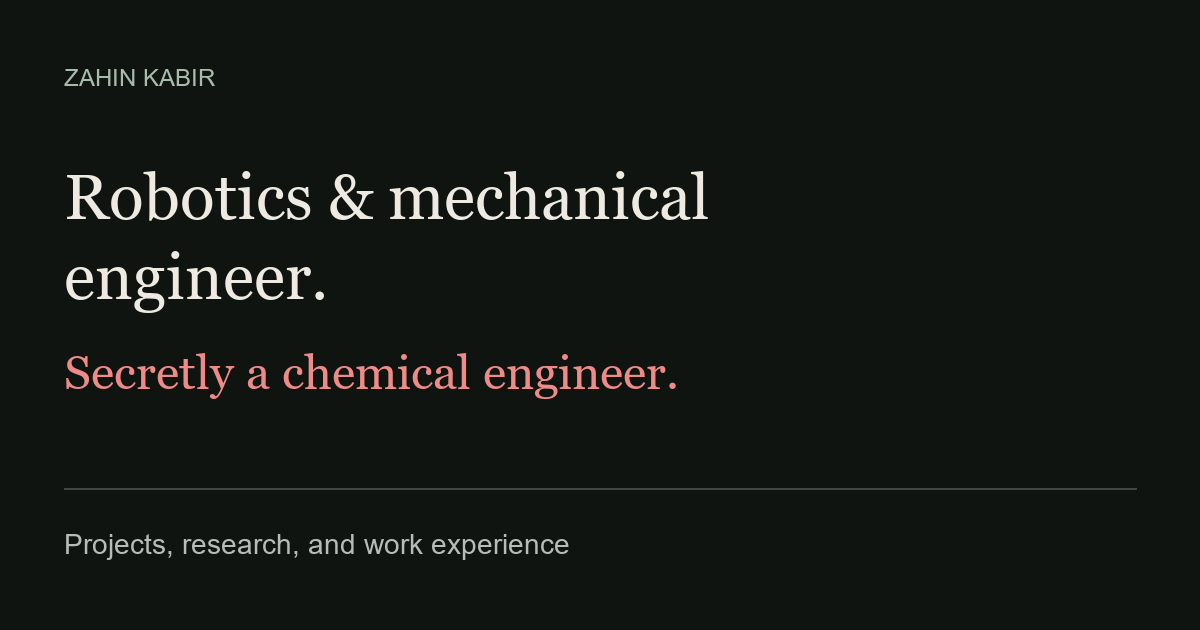
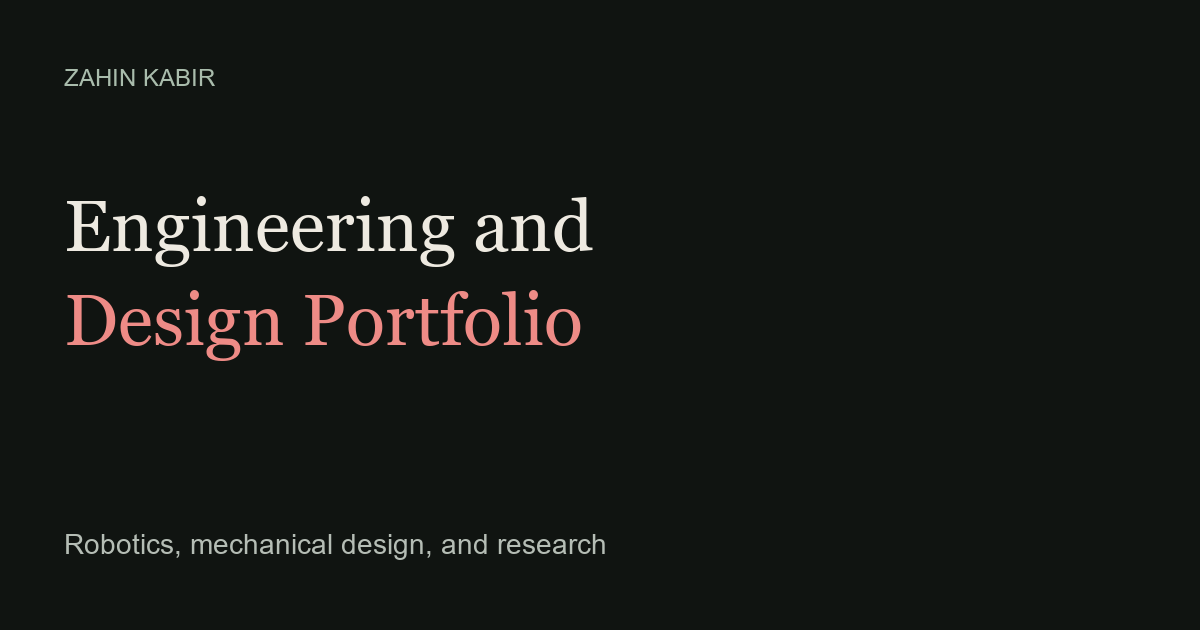
Add NERA work and organize project cards by individual project

Changed region(s): [[0.0308, 0.2714, 0.5858, 0.6333], [0.0617, 0.754, 0.925, 0.7841], [0.0617, 0.8444, 0.5242, 0.9048]]

diff --git a/src/data/projects.js b/src/data/projects.js
@@ -11,7 +11,7 @@ export const projects = [
     "image": "shinkei/rigor-mechanical-assembly.webp",
     "alt": "Exploded CAD view of the rigor mortis system shelf and supporting mechanical components",
     "coverCaption": "Rigor mortis system: mechanical assembly shown in my summer 2026 internship presentation.",
-    "summary": "I worked on the hardware and software behind rigor mortis tracking, hyperspectral imaging, and texture analysis.",
+    "summary": "I worked on texture analysis, hyperspectral imaging, NERA computer vision, and rigor mortis tracking.",
     "role": "R&D / Quality Mechanical Engineering Intern",
     "team": "Shinkei engineering and research team; improvements to existing systems",
     "tools": [
@@ -22,15 +22,171 @@ export const projects = [
       "Hyperspectral imaging",
       "Serial data acquisition"
     ],
-    "intro": "A lot of my summer at Shinkei was spent getting research equipment to work the way we needed it to. That meant switching between CAD, wiring, Python, and the actual machines. Here are the rigor mortis, hyperspectral imaging, and texture-analysis projects I worked on.",
+    "intro": "At Shinkei, I worked on equipment for studying fish quality and on the NERA computer-vision module. I got to take these projects through CAD, assembly, testing, and software development. Here are the systems I worked on!",
     "sections": [
       {
-        "title": "What I worked on",
-        "text": "The R&D team needed repeatable ways to measure changes in fish quality. I worked on an existing rigor mortis system, set up new imaging equipment, and helped get a texture analyzer running. Some days that meant changing a bracket. Other days it meant figuring out why a camera or a serial connection was not cooperating."
+        "title": "TPA analyser: custom procurement and commissioning",
+        "text": "I worked with a vendor in China to procure a custom texture profile analyser, then helped assemble, calibrate, and test it. The machine came with a microprinter as its only output, so the next part of my project was getting those readings onto a computer."
+      },
+      {
+        "title": "TPA analyser: a digital load-cell feed",
+        "text": "I tapped into the printer output through a serial connection and used PuTTY to read it. After working out the output speed and COM-port settings, I had a live feed from the internal load cell on my laptop! I then integrated that feed into my own UI. The connection is read-only; it does not control the machine’s motion.",
+        "image": "shinkei/texture-analyzer-data-interface.webp",
+        "alt": "Rear of the texture analyzer with serial interface hardware and a USB connection",
+        "caption": "The serial interface connected to the back of the analyzer.",
+        "gallery": [
+          {
+            "image": "shinkei/texture-printer-connector.webp",
+            "alt": "Printer module and connector used during texture-analyzer interface development",
+            "caption": "The printer hardware I was working with."
+          },
+          {
+            "image": "shinkei/texture-interface-bench.webp",
+            "alt": "Serial interface components and wiring being tested at a desk",
+            "caption": "Working through the interface on the bench."
+          },
+          {
+            "image": "shinkei/texture-terminal-readout.webp",
+            "alt": "PuTTY terminal showing force readings from the texture analyzer",
+            "caption": "The moment the analyzer output made it onto the laptop."
+          }
+        ]
+      },
+      {
+        "title": "My wonderfully pink user interface — Texture Lab",
+        "text": "I made this UI incredibly pink because the R&D scientist thought it would be cute :) Texture Lab brings the connection settings and live load-cell feed together so we can watch the measurements on a computer. The output rate is still too slow to fully capture a fast compression curve, so calculating texture properties from it would need further validation.",
+        "image": "shinkei/texture-lab-interface.webp",
+        "alt": "Shinkei Texture Lab read-only connection and live-force interface",
+        "caption": "The Texture Lab interface. This screenshot shows the disconnected state, rather than a recorded test.",
+        "gallery": [
+          {
+            "image": "shinkei/texture-pink-ui-laptop.webp",
+            "alt": "Bright pink Texture Lab interface open on a laptop",
+            "caption": "My wonderfully pink Texture Lab UI running on my laptop."
+          }
+        ]
+      },
+      {
+        "title": "HSI: commissioning and workflow optimization",
+        "text": "I commissioned the Resonon hyperspectral imager and worked on the acquisition settings and workflow. I also worked on a pilot study exploring the relationship between fish spoilage and spectral data. This brought the equipment setup and experimental work together.",
+        "image": "shinkei/hsi-texture-lab.webp",
+        "alt": "Resonon hyperspectral imaging apparatus and texture-analysis equipment on a laboratory bench",
+        "caption": "The HSI and texture-analysis equipment after setup in the lab."
+      },
+      {
+        "title": "HSI: pilot-study acquisition",
+        "text": "These initial scans helped me refine the imaging workflow for the spoilage-correlation pilot study. The view below shows the acquisition software; it is not a final correlation result.",
+        "image": "shinkei/hyperspectral-imaging-setup.webp",
+        "alt": "Hyperspectral acquisition software displaying a fish sample and an RGB pixel-index plot",
+        "caption": "An initial scan in the HSI software. The RGB pixel-index plot shown here is not a calibrated spectral result."
+      },
+      {
+        "title": "NERA: visual detection module",
+        "text": "I worked on the design, fabrication, installation, and deployment of the NERA computer-vision module, along with hardware and software troubleshooting. A big part of the work was making sure the cameras could see the fish clearly in the actual operating environment.",
+        "gallery": [
+          {
+            "image": "shinkei/nera-overview.webp",
+            "alt": "CAD assembly of the NERA visual detection module",
+            "caption": "The NERA visual detection module in CAD."
+          },
+          {
+            "image": "shinkei/nera-collection.webp",
+            "alt": "Fish positioned on a wire support for NERA image collection",
+            "caption": "The image-collection setup."
+          },
+          {
+            "image": "shinkei/nera-lighting.webp",
+            "alt": "Illuminated fish sample inside the NERA module",
+            "caption": "Checking the sample under the module lighting."
+          }
+        ]
+      },
+      {
+        "title": "NERA: assembly and deployment",
+        "text": "I helped assemble NERA2, terminate wires, widen cable openings, and prepare the shipping crate. After deploying CV2 in Tacoma, we used test runs to identify visibility problems with the bottom camera and polycarbonate panels.",
+        "gallery": [
+          {
+            "image": "shinkei/nera-wiring.webp",
+            "alt": "Terminated cable connections on a workbench",
+            "caption": "Terminating the connections during assembly."
+          },
+          {
+            "image": "shinkei/nera-deployment.webp",
+            "alt": "NERA equipment during deployment work",
+            "caption": "On site for assembly and deployment."
+          },
+          {
+            "image": "shinkei/nera-assembly.webp",
+            "alt": "NERA equipment being prepared near a workshop loading area",
+            "caption": "Preparing the equipment for deployment."
+          },
+          {
+            "image": "shinkei/nera-panel.webp",
+            "alt": "NERA enclosure panel with a circular opening",
+            "caption": "Working on the enclosure."
+          }
+        ]
+      },
+      {
+        "title": "NERA: camera position and wire-rack design",
+        "text": "I explored wire supports in place of polycarbonate to give the cameras a more direct view of the flesh and gut cavity. The bottom camera was affected by fish slime and condensation from the spray system. Moving the camera above the fish addressed that issue and removed the need for the solenoids in that arrangement, but required a new layout and more work on side visibility. I also added a cantilevered loading channel for the upright wire rack and clamp system.",
+        "gallery": [
+          {
+            "image": "shinkei/nera-wire-rack.webp",
+            "alt": "NERA CAD model showing a wire rack and loading support",
+            "caption": "The wire-rack and loading-support layout."
+          },
+          {
+            "image": "shinkei/nera-view-clear.webp",
+            "alt": "Fish sample viewed through the NERA support arrangement",
+            "caption": "One of the imaging views used to assess visibility."
+          },
+          {
+            "image": "shinkei/nera-view-fog.webp",
+            "alt": "Hazy camera image of a fish sample in NERA",
+            "caption": "A visibility issue seen during testing."
+          }
+        ]
+      },
+      {
+        "title": "NERA: support height and clamp iterations",
+        "text": "With the fish centered in the machine, the dorsal region was difficult to see. I tested changes to the support-beam height and worked on the clamp layout. The first clamp design left too little room for the flesh, and fish in rigor tended to close in the top-camera orientation. These photos and CAD views show the iterations I worked through.",
+        "gallery": [
+          {
+            "image": "shinkei/nera-clamp.webp",
+            "alt": "Fish sample held in the NERA clamp and wire rack",
+            "caption": "Testing how the clamp held the sample."
+          },
+          {
+            "image": "shinkei/nera-height.webp",
+            "alt": "Fish sample positioned beneath the NERA lighting and support beams",
+            "caption": "Testing the support layout and sample position."
+          },
+          {
+            "image": "shinkei/nera-side-view.webp",
+            "alt": "End view through the NERA support assembly",
+            "caption": "Checking the side view through the supports."
+          },
+          {
+            "image": "shinkei/nera-layout.webp",
+            "alt": "NERA CAD assembly with highlighted support geometry",
+            "caption": "Adjusting the rack geometry in CAD."
+          },
+          {
+            "image": "shinkei/nera-cad-front.webp",
+            "alt": "Front perspective of the NERA support and clamp assembly",
+            "caption": "The support and clamp assembly in CAD."
+          },
+          {
+            "image": "shinkei/nera-cad-side.webp",
+            "alt": "Side perspective of the NERA support and clamp assembly",
+            "caption": "A second view of the assembly."
+          }
+        ]
       },
       {
         "title": "Rigor mortis: from CAD to the machine",
-        "text": "I changed the limit-switch brackets so we could adjust the starting positions instead of fighting a fixed setup. I also worked on the mechanical structure and HMI mount. These are the CAD views and some of the hands-on fitting work behind those changes.",
+        "text": "I changed the limit-switch brackets so we could adjust the starting positions to make the setup easier to adjust. I also worked on the mechanical structure and HMI mount. These are the CAD views and some of the hands-on fitting work behind those changes.",
         "image": "shinkei/adjustable-limit-switch-bracket.webp",
         "alt": "Siemens NX view of an adjustable limit-switch bracket attached to a support member",
         "caption": "The adjustable limit-switch bracket in NX.",
@@ -53,7 +209,7 @@ export const projects = [
         ]
       },
       {
-        "title": "Rigor mortis: making runs less fragile",
+        "title": "Rigor mortis: controls and reliability",
         "text": "Most of the fixes were in the run script: camera-health checks, starting-position and detection checks, overactuation limits, and logs that made troubleshooting much easier. I also worked through inconsistent pinout wiring, camera calibration, automatic uploads, and the two-Pi setup. A KVM switch let us control both computers from one screen.",
         "table": [
           [
@@ -119,74 +275,11 @@ export const projects = [
           "poster": "shinkei/rigor-tracking-poster.webp",
           "alt": "Animated rigor mortis image sequence showing colored tracking markers on the fish",
           "caption": "The original tracking animation from my rigor mortis slide. Open it to watch the sequence; close it to hide the motion."
-        },
-        "gallery": [
-          {
-            "image": "shinkei/rigor-analysis-visual.webp",
-            "alt": "Orange and yellow fish-shaped visualization on a black background",
-            "caption": "An analysis visualization included alongside the workflow in my presentation."
-          }
-        ]
-      },
-      {
-        "title": "Hyperspectral imaging: setup",
-        "text": "The Resonon hyperspectral camera arrived during my internship, so I installed it, got it set up, and started testing it. I worked on the settings and procedures we would need for future fish-quality correlation studies. This part of the project was about getting the equipment and acquisition process ready.",
-        "image": "shinkei/hsi-texture-lab.webp",
-        "alt": "Resonon hyperspectral imaging apparatus and texture-analysis equipment on a laboratory bench",
-        "caption": "The HSI and texture-analysis equipment after setup in the lab."
-      },
-      {
-        "title": "Hyperspectral imaging: initial acquisition",
-        "text": "Here is one of the initial acquisition views from the imaging software. I used these early scans to work through setup and scan configuration before the later correlation studies.",
-        "image": "shinkei/hyperspectral-imaging-setup.webp",
-        "alt": "Hyperspectral acquisition software displaying a fish sample and an RGB pixel-index plot",
-        "caption": "An initial scan in the HSI software. The RGB pixel-index plot shown here is not a calibrated spectral result."
-      },
-      {
-        "title": "Texture analysis: first, get the machine here",
-        "text": "There was quite a bit of back-and-forth with the vendor before the texture analyzer finally arrived. I helped get it procured, assembled, calibrated, and tested. Then we ran into the next problem: it printed its results on tiny receipt paper. That was not especially helpful when we wanted the measurements on a computer."
-      },
-      {
-        "title": "Texture analysis: getting data off receipt paper",
-        "text": "My plan was to read the printer output through a serial connection and bring it into PuTTY. I worked out the output speed and COM-port settings, and got the internal load-cell readings onto my laptop. Success :D The interface only reads the output; it does not control the machine’s motion.",
-        "image": "shinkei/texture-analyzer-data-interface.webp",
-        "alt": "Rear of the texture analyzer with serial interface hardware and a USB connection",
-        "caption": "The serial interface connected to the back of the analyzer.",
-        "gallery": [
-          {
-            "image": "shinkei/texture-printer-connector.webp",
-            "alt": "Printer module and connector used during texture-analyzer interface development",
-            "caption": "The printer hardware I was working with."
-          },
-          {
-            "image": "shinkei/texture-interface-bench.webp",
-            "alt": "Serial interface components and wiring being tested at a desk",
-            "caption": "Working through the interface on the bench."
-          },
-          {
-            "image": "shinkei/texture-terminal-readout.webp",
-            "alt": "PuTTY terminal showing force readings from the texture analyzer",
-            "caption": "The moment the analyzer output made it onto the laptop."
-          }
-        ]
-      },
-      {
-        "title": "Texture Lab (yes, it is very pink)",
-        "text": "I made this UI incredibly pink because the R&D scientist thought it would be cute :) It puts the connection settings and live-force readout in one place. There is still a real measurement limit here: the output rate cannot fully capture a fast compression curve, so I would not use an undersampled trace to calculate texture properties without validating that measurement first.",
-        "image": "shinkei/texture-lab-interface.webp",
-        "alt": "Shinkei Texture Lab read-only connection and live-force interface",
-        "caption": "The Texture Lab interface. This screenshot shows the disconnected state, rather than a recorded test.",
-        "gallery": [
-          {
-            "image": "shinkei/texture-pink-ui-laptop.webp",
-            "alt": "Bright pink Texture Lab interface open on a laptop",
-            "caption": "The very pink UI running on my laptop."
-          }
-        ]
+        }
       },
       {
         "title": "What I took away",
-        "text": "I got to follow changes all the way from NX and sheet metal to installation and troubleshooting. I also spent a lot of time on the less glamorous parts of research equipment: reliable connections, useful logs, clear procedures, and interfaces people actually want to use. Those details made up a big part of this internship."
+        "text": "I loved getting to work across mechanical design, experimental equipment, and software in the same internship. I built experience with NX, sheet metal, fabrication, food-safe design, and research procedures, and got to see how those pieces come together on the actual machines."
       }
     ]
   },

diff --git a/src/data/project-cards.js b/src/data/project-cards.js
@@ -1,0 +1,14 @@
+import { projects } from './projects.js';
+const shinkei = projects[0];
+const shinkeiCard = (title, section, category, image, alt, summary) => ({ ...shinkei, title, anchor: `section-${section}`, category: `SHINKEI / ${category}`, image: `shinkei/${image}`, alt, summary });
+export const projectCards = [
+  shinkeiCard('NERA computer vision', 5, 'ROBOTICS / R&D', 'nera-overview.webp', 'CAD assembly of the NERA visual detection module', 'I worked on the camera module, wire rack, and clamps, then helped assemble, deploy, and test the system.'),
+  { ...projects[1], category: 'PERSONAL / ROBOTICS / ML / R&D' },
+  shinkeiCard('TPA analyser & Texture Lab', 0, 'TEST ASSAYS / R&D', 'texture-pink-ui-laptop.webp', 'Pink Texture Lab UI running on a laptop', 'I procured a custom texture analyser, got a digital feed from its load cell, and brought it into my wonderfully pink UI.'),
+  shinkeiCard('Hyperspectral imaging', 3, 'SENSING / R&D', 'hsi-texture-lab.webp', 'Hyperspectral imaging equipment on a laboratory bench', 'I commissioned the imager, optimized the workflow, and worked on a pilot study relating fish spoilage to spectral data.'),
+  { ...projects[2], category: 'KEURIG DR PEPPER / TEST ASSAYS / R&D' },
+  { ...projects[3], category: 'KEURIG DR PEPPER / TEST ASSAYS / R&D' },
+  shinkeiCard('Rigor mortis tracking', 9, 'MECHANICAL DESIGN / COMPUTER VISION / R&D', 'rigor-mechanical-assembly.webp', shinkei.alt, 'I updated the mechanical setup and rebuilt the run and analysis workflows for tracking changes in fish over time.'),
+  { ...projects[5], category: 'OUROBIO / PROCESS R&D' },
+  { ...projects[4], category: 'CHE 320 / MACHINE LEARNING' },
+].map((project, index) => ({ ...project, number: String(index + 1).padStart(2, '0') }));
